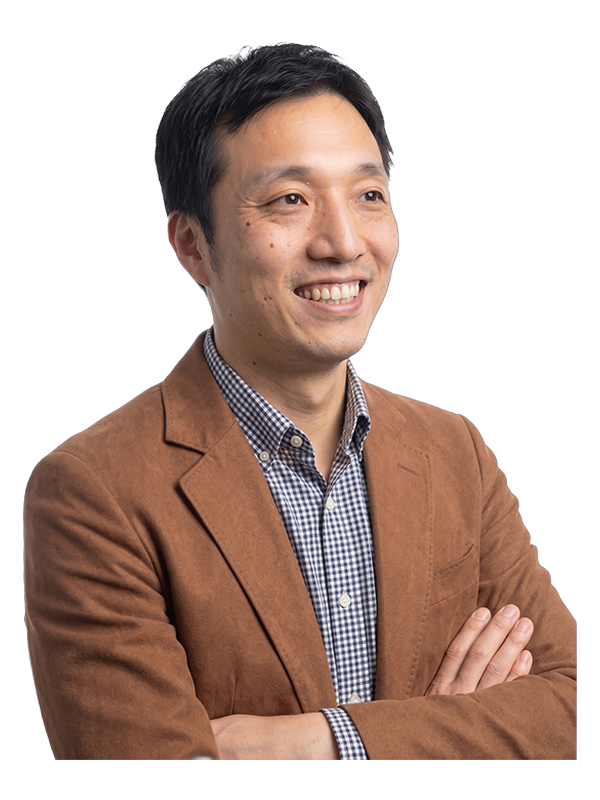
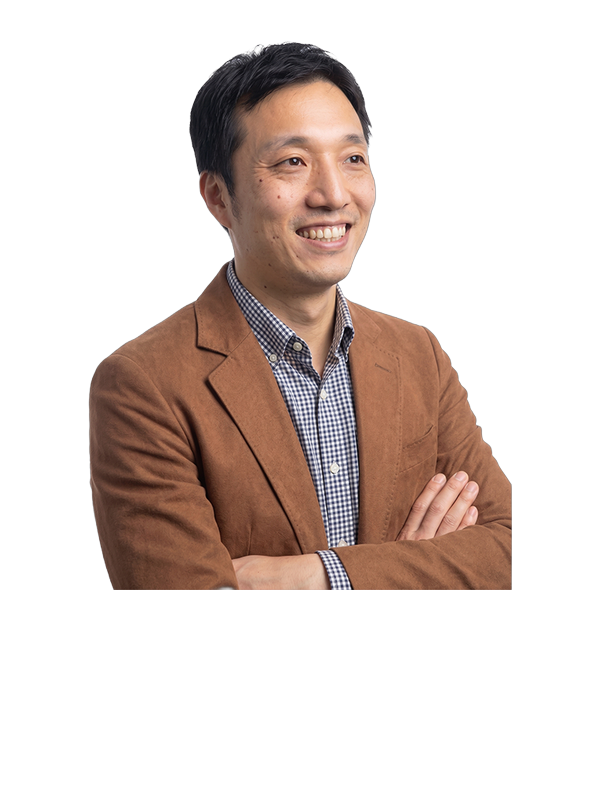
Hero / 04 講師照片檔案分家 → 各自可調不互相影響
- Hero 用 instructor-morris.png / instructor-victor.png(head_ratio 0.32 top-align)
  恢復到你認可的 92fca5a 狀態
- 04 用 instructor-morris-lg.png / instructor-victor-lg.png(拉伸到同高度 720px)
  頂+底切齊你紅線的效果
- 以後改 04 就只動 -lg 檔案,不會影響 Hero(反之亦然)

diff --git a/course-tour/index.html b/course-tour/index.html
@@ -603,7 +603,7 @@
       <div class="reveal">
         <div class="mx-auto mb-6" style="width: 100%; max-width: 416px;">
           <div class="instructor-wrap">
-            <img src="assets/instructor-morris.png" alt="Morris 講師" class="instructor-img">
+            <img src="assets/instructor-morris-lg.png" alt="Morris 講師" class="instructor-img">
           </div>
         </div>
         <!-- 跟 Hero 一樣的深藍 label 框(包 3 行) -->
@@ -623,7 +623,7 @@
       <div class="reveal" style="transition-delay:0.1s;">
         <div class="mx-auto mb-6" style="width: 100%; max-width: 416px;">
           <div class="instructor-wrap">
-            <img src="assets/instructor-victor.png" alt="Victor 講師" class="instructor-img">
+            <img src="assets/instructor-victor-lg.png" alt="Victor 講師" class="instructor-img">
           </div>
         </div>
         <div class="text-center max-w-xs mx-auto">

diff --git a/專案/4_製造業列車/2. 產出/index.html b/專案/4_製造業列車/2. 產出/index.html
@@ -603,7 +603,7 @@
       <div class="reveal">
         <div class="mx-auto mb-6" style="width: 100%; max-width: 416px;">
           <div class="instructor-wrap">
-            <img src="assets/instructor-morris.png" alt="Morris 講師" class="instructor-img">
+            <img src="assets/instructor-morris-lg.png" alt="Morris 講師" class="instructor-img">
           </div>
         </div>
         <!-- 跟 Hero 一樣的深藍 label 框(包 3 行) -->
@@ -623,7 +623,7 @@
       <div class="reveal" style="transition-delay:0.1s;">
         <div class="mx-auto mb-6" style="width: 100%; max-width: 416px;">
           <div class="instructor-wrap">
-            <img src="assets/instructor-victor.png" alt="Victor 講師" class="instructor-img">
+            <img src="assets/instructor-victor-lg.png" alt="Victor 講師" class="instructor-img">
           </div>
         </div>
         <div class="text-center max-w-xs mx-auto">
